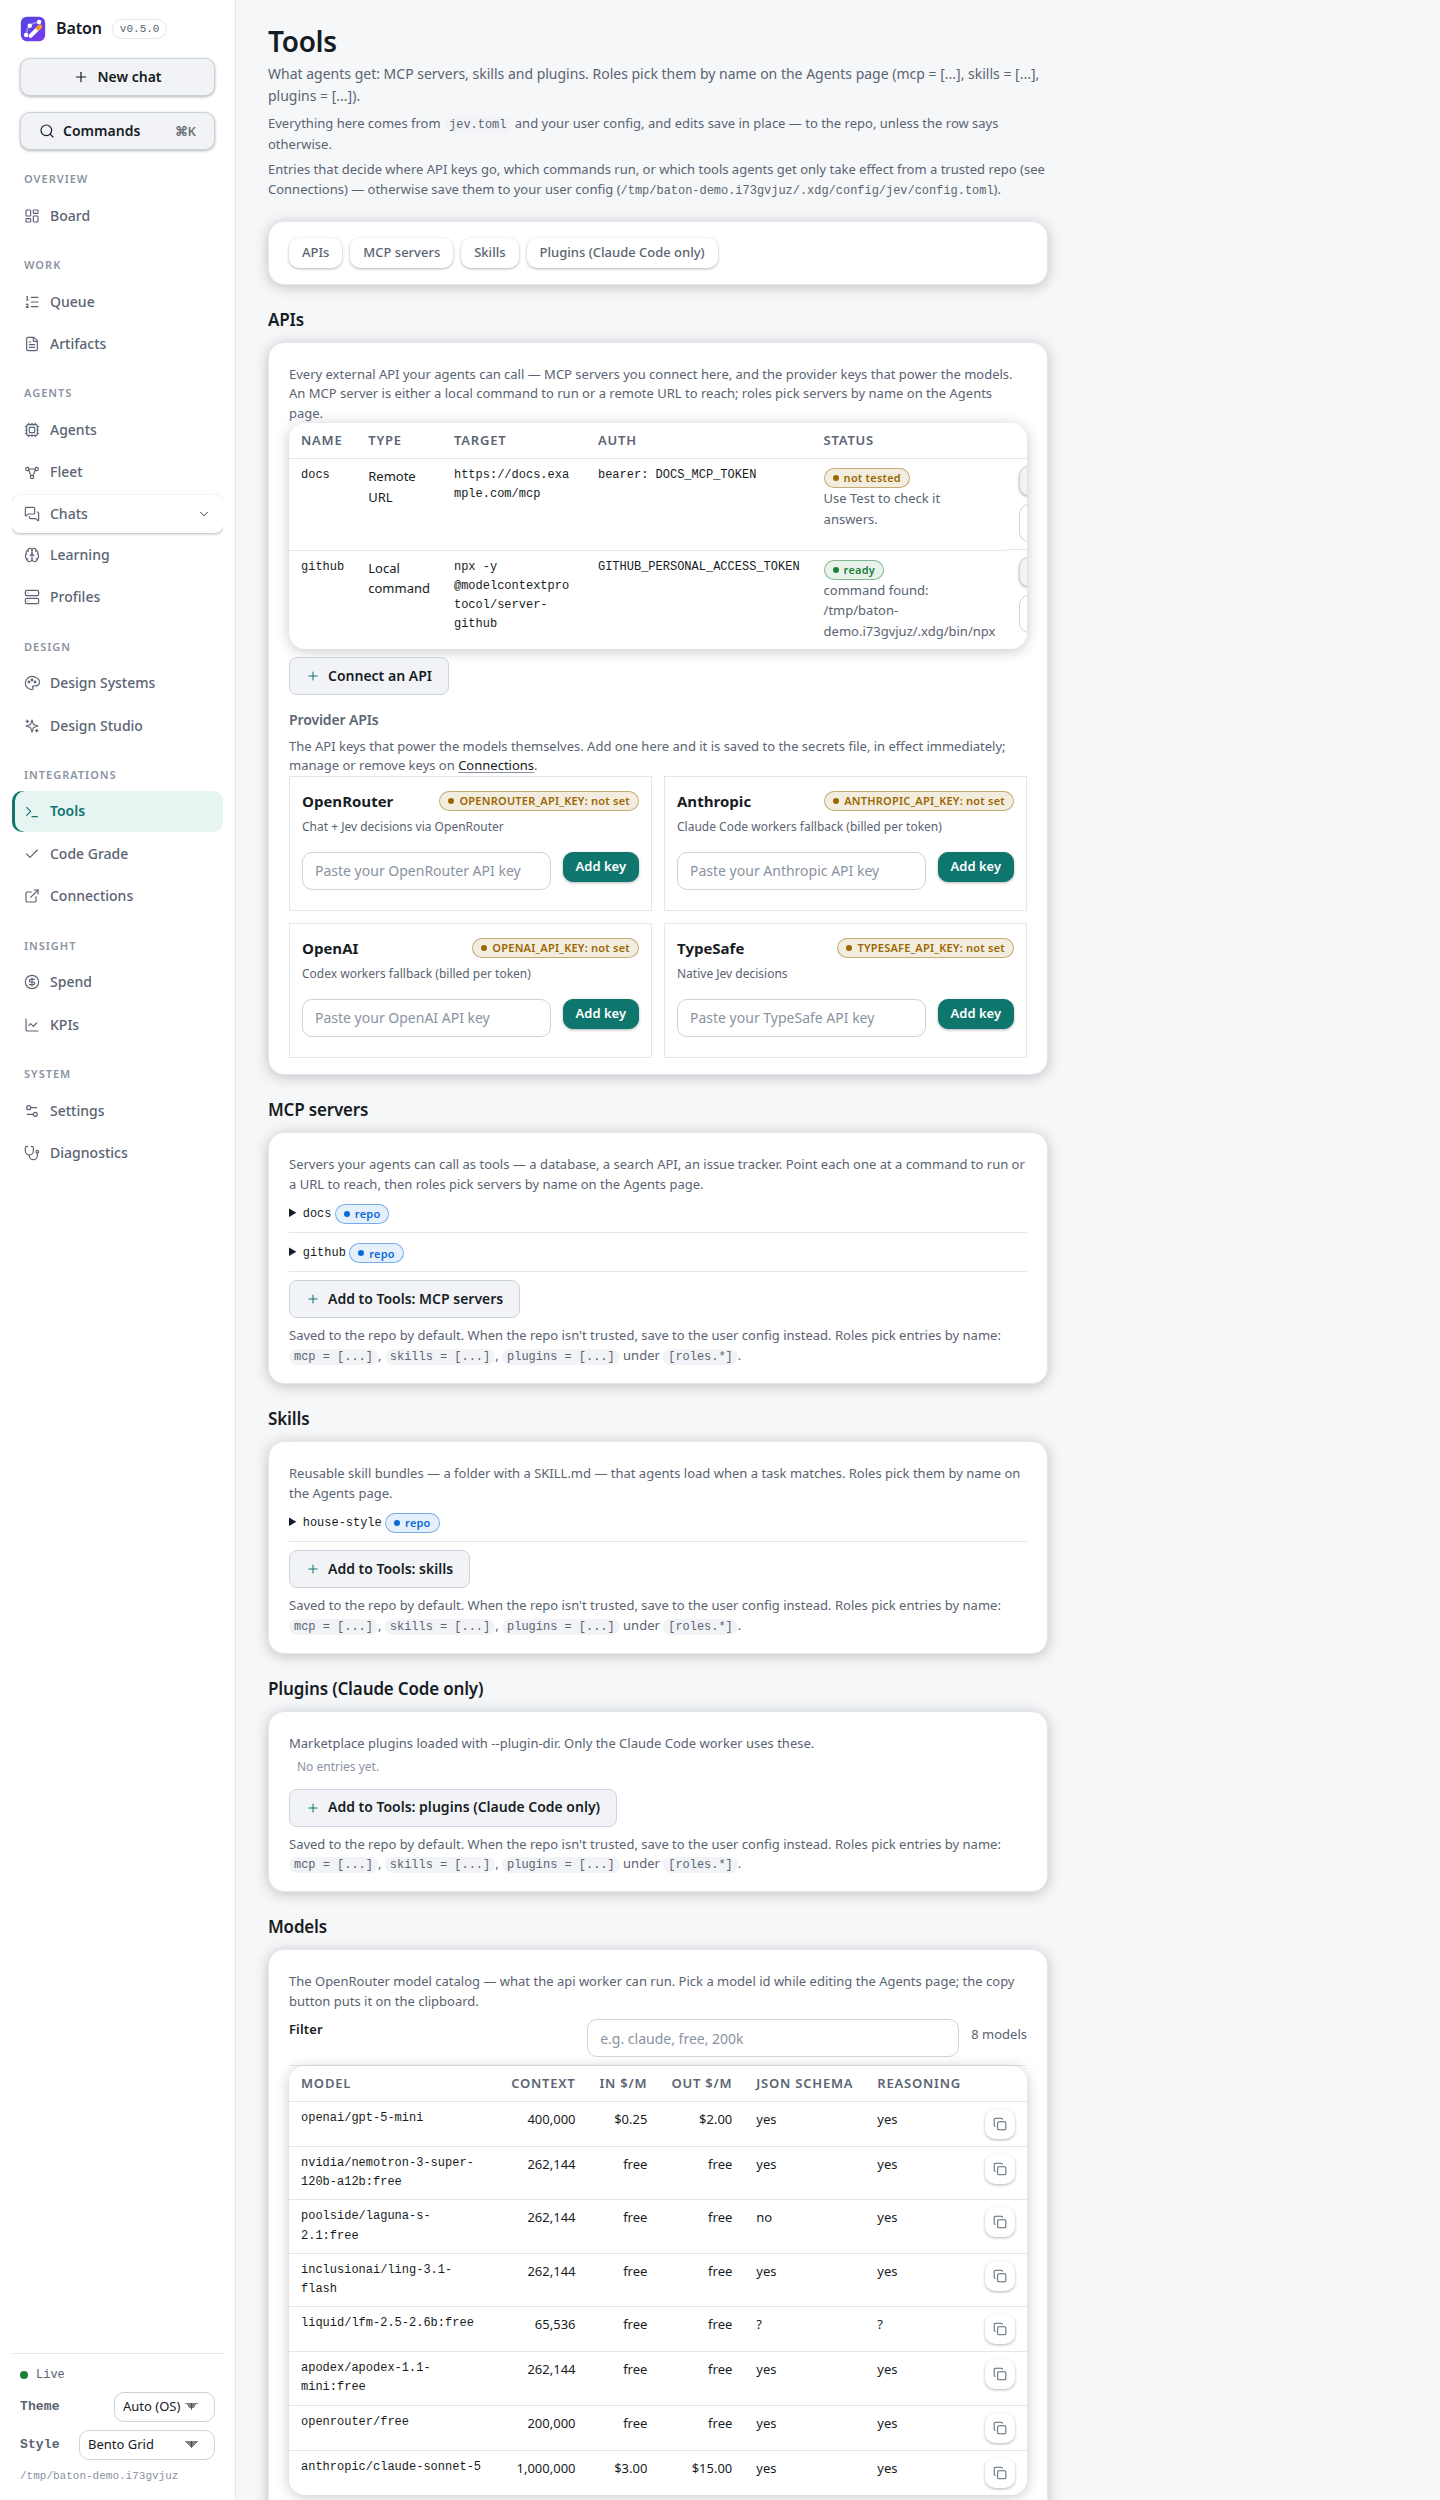
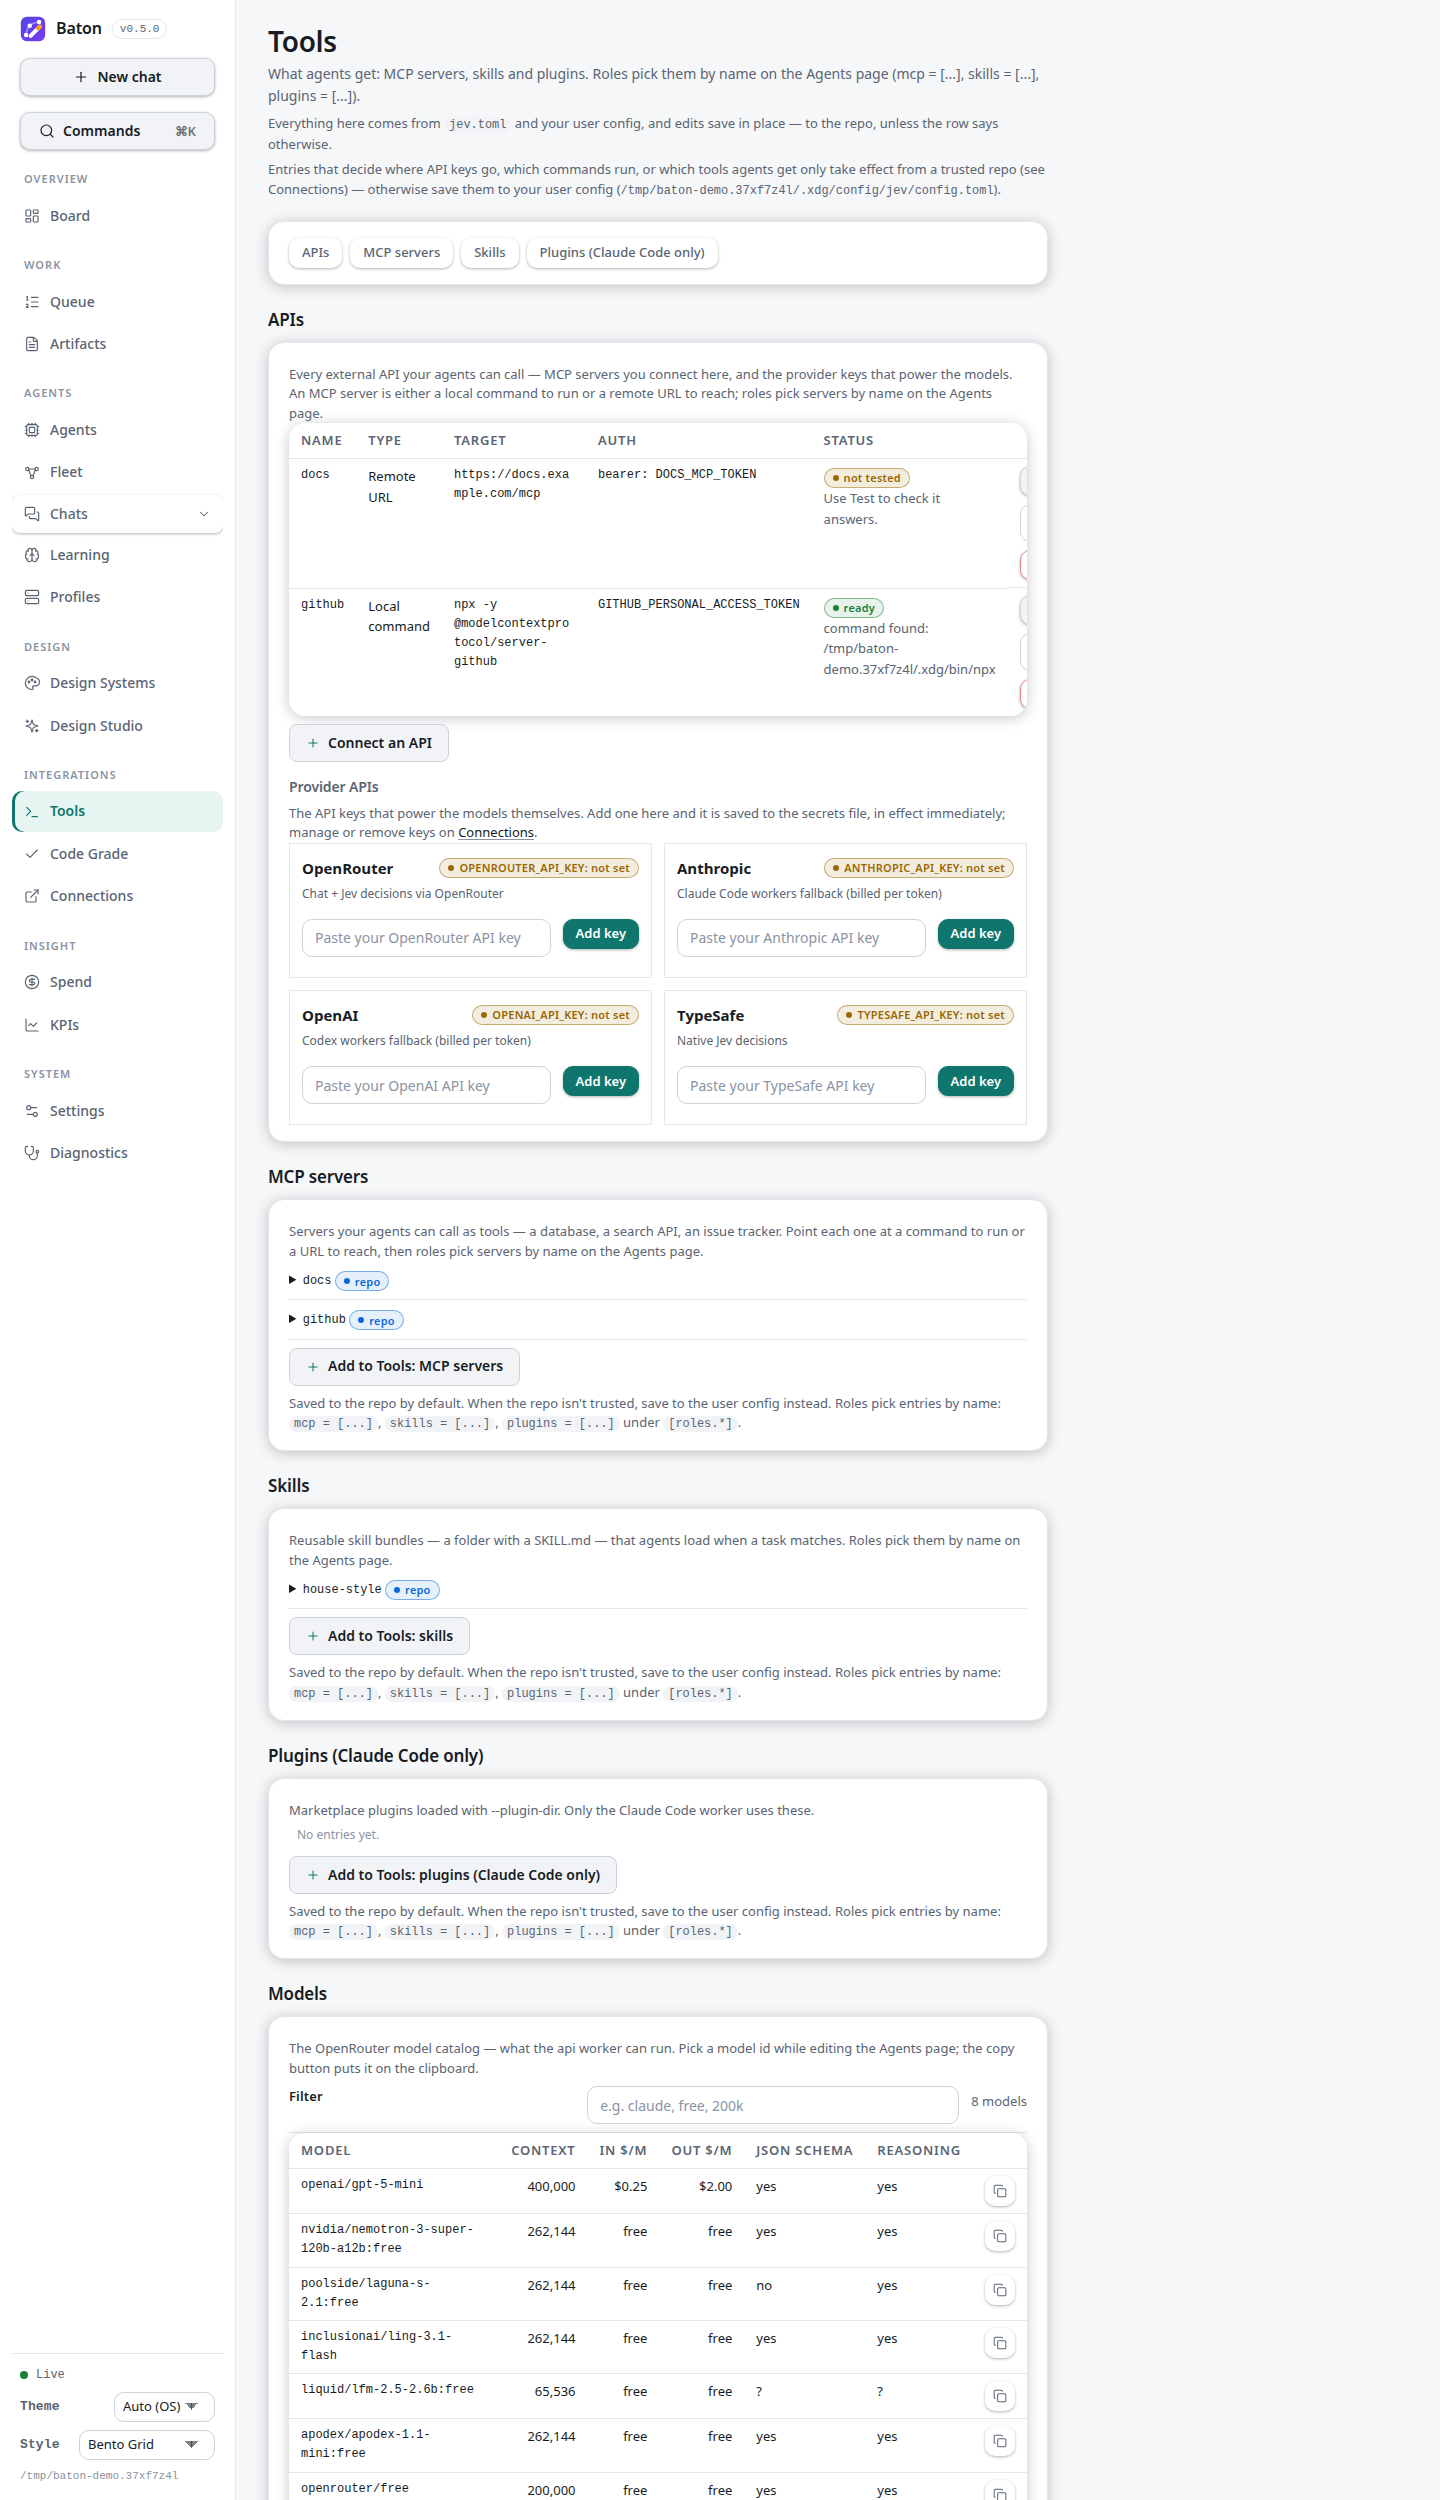
Tools APIs table: stop the Remove scope select squeezing to "re ▾" (issue #297)
The actions cell held the Test form and the Remove form (scope select +
button) in one flex row, and the global select { width: 100% } let the
select shrink below its content width in the narrow column. Stack the
two forms and let the Remove form wrap so the scope select takes its own
line at full width: "repo"/"user" always renders whole, and the cell
stays narrow enough that the table still fits the panel with no
horizontal scroll (measured at 1440px with Mac-like data: table 738px in
a 738px wrapper, select 88px, Remove fully visible; the side-by-side
variant measured 764px and clipped Remove).

Also regenerates docs/images/dashboard-tools.png.

Changed region(s): [[0.1875, 0.2184, 0.7188, 1.0]]

diff --git a/src/jev_agent/dashboard/static/style.css b/src/jev_agent/dashboard/static/style.css
@@ -653,6 +653,18 @@ form.bisect input[type="text"]#bisect-mark { width: 5em; }
 form.key-add { align-items: center; gap: var(--s1); margin-left: var(--s2); vertical-align: middle; }
 form.key-add .key-input { width: 220px; height: var(--control-h-sm); font-size: var(--text-xs); }
 .actions { display: flex; flex-wrap: wrap; gap: var(--s2); align-items: center; }
+/* Issue #297: the APIs table's actions cell held the Test form and the Remove
+   form (scope select + button) in one flex row, and the global
+   `select { width: 100% }` let the select shrink to "re ▾" in the narrow
+   column. Stack the two forms, and let the Remove form wrap so the scope
+   select takes its own line at full width: "repo"/"user" always renders
+   whole, and the cell stays narrow enough that the table still fits the
+   panel without a horizontal scroll (measured at 1440px with Mac-like data:
+   table 738px in a 738px wrapper, select 88px, Remove fully visible; the
+   side-by-side select+button variant measured 764px and clipped Remove). */
+.api-table td.actions { flex-direction: column; align-items: stretch; }
+.api-table td.actions form.inline { flex-wrap: wrap; gap: var(--s2); }
+.api-table td.actions form.inline select { flex: 1 1 100%; width: auto; }
 /* A paragraph sitting directly in a toolbar row (Queue "Show all" toggle, KPIs
    sync note, Learning status line) is a flex item, not prose: the base p
    bottom margin would lift it off the row's vertical center. */

diff --git a/src/jev_agent/dashboard/templates/tools.html b/src/jev_agent/dashboard/templates/tools.html
@@ -163,7 +163,7 @@
   a local command to run or a remote URL to reach; roles pick servers by name
   on the Agents page.</p>
   {% if api_servers %}
-  <div class="table-wrap table-scroll"><table>
+  <div class="table-wrap table-scroll"><table class="api-table">
     <thead><tr><th>Name</th><th>Type</th><th>Target</th><th>Auth</th><th>Status</th><th><span class="sr-only">Actions</span></th></tr></thead>
     <tbody>
     {% for s in api_servers %}
